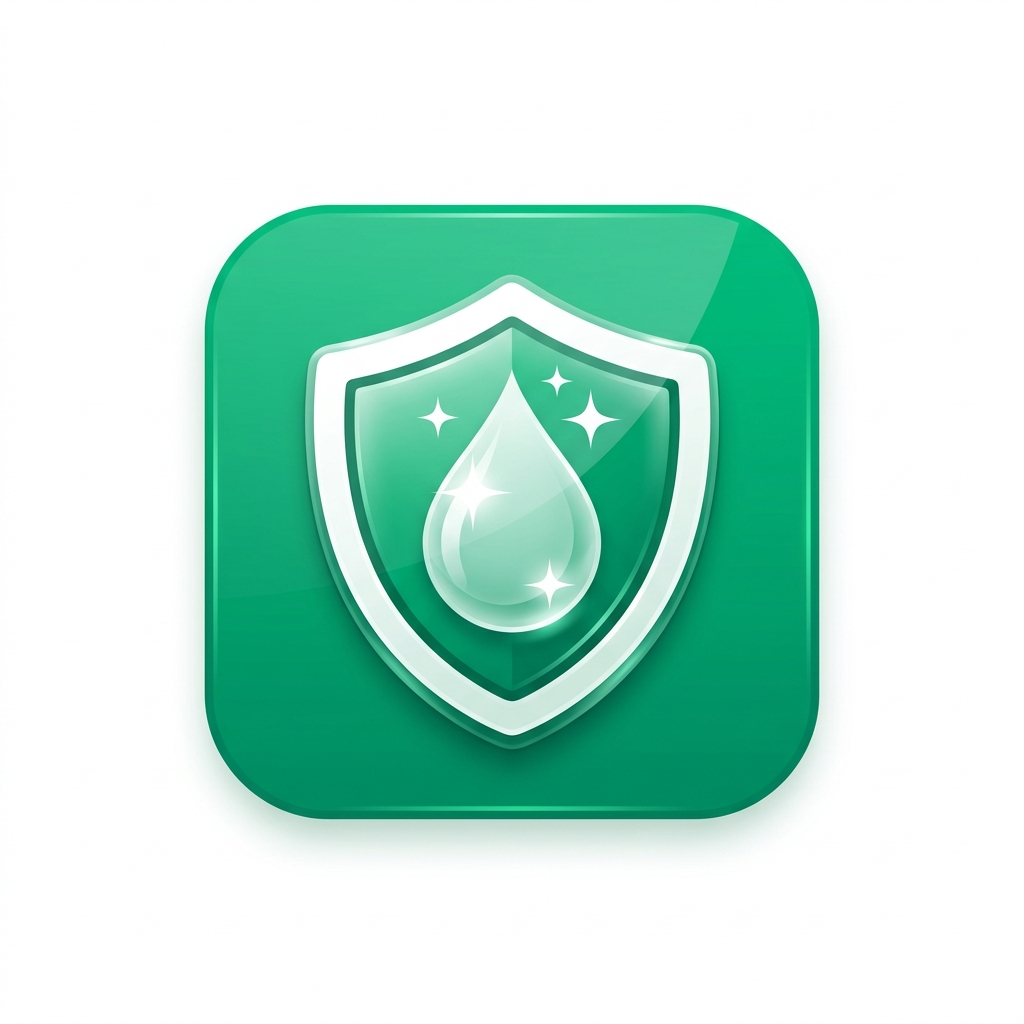
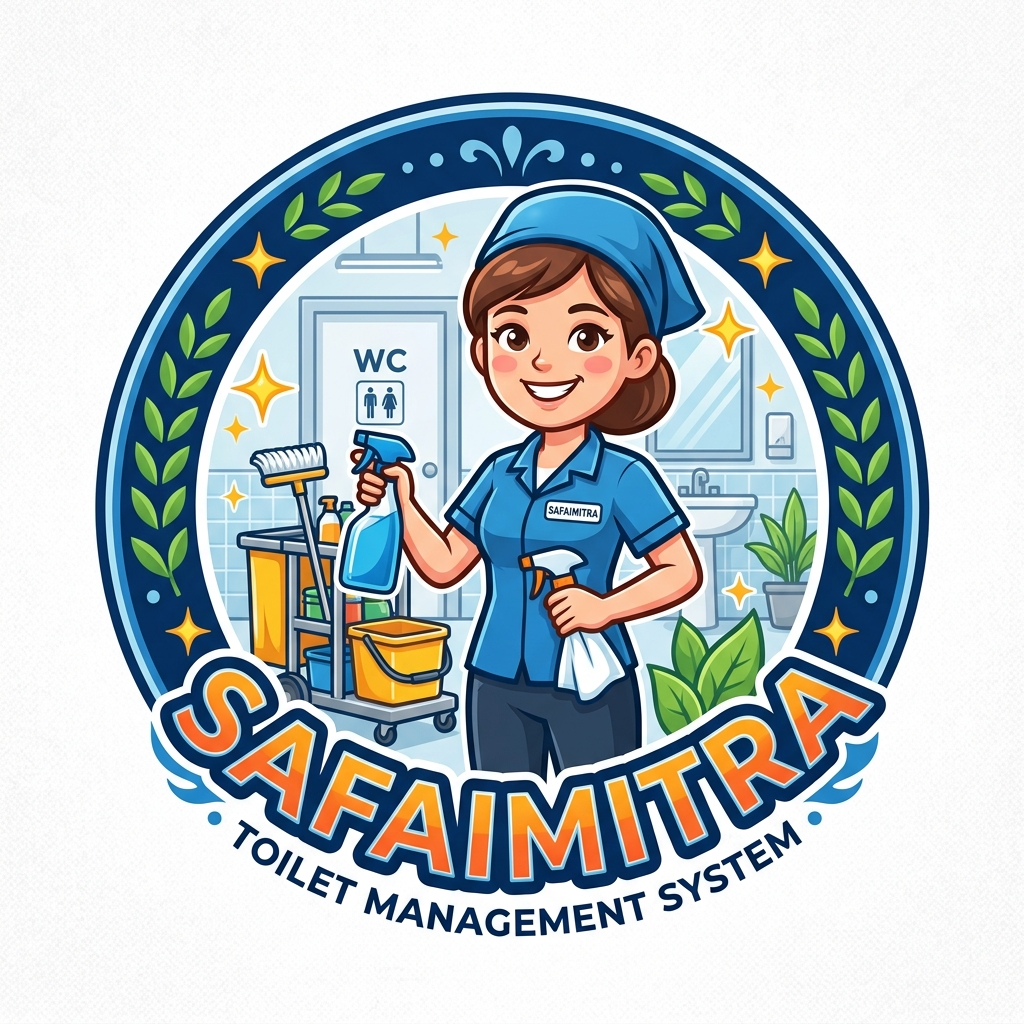
Update app theme to a cleaner bluish sky theme and change background color

diff --git a/safaimitra-web/tailwind.config.js b/safaimitra-web/tailwind.config.js
@@ -8,16 +8,16 @@ export default {
     extend: {
       colors: {
         primary: {
-          50: '#e8f0fe',
-          100: '#d2e3fc',
-          200: '#aecbfa',
-          300: '#8ab4f8',
-          400: '#669df6',
-          500: '#4285f4',
-          600: '#1a73e8', // Google Blue
-          700: '#1967d2',
-          800: '#185abc',
-          900: '#174ea6',
+          50: '#f0f9ff',
+          100: '#e0f2fe',
+          200: '#bae6fd',
+          300: '#7dd3fc',
+          400: '#38bdf8',
+          500: '#0ea5e9',
+          600: '#0284c7', // Sky Blue
+          700: '#0369a1',
+          800: '#075985',
+          900: '#0c4a6e',
         },
         dark: {
           900: '#202124',

diff --git a/safaimitra-web/src/pages/public/SubmitFeedback.tsx b/safaimitra-web/src/pages/public/SubmitFeedback.tsx
@@ -2,8 +2,8 @@ import React, { useState, useEffect } from 'react';
 import { useSearchParams, Link } from 'react-router-dom';
 import { collection, query, where, getDocs, addDoc, serverTimestamp } from 'firebase/firestore';
 import { db } from '../../lib/firebase';
-import { ShieldCheck, CheckCircle2, Star, MapPin } from 'lucide-react';
-import { motion } from 'framer-motion';
+import { Send, MapPin, CheckCircle2, ChevronRight, Check, Star } from 'lucide-react';
+import { motion, AnimatePresence } from 'framer-motion';
 
 const COMMON_ISSUES = [
   'Dirty floor',
@@ -160,8 +160,8 @@ export default function SubmitFeedback() {
     <div className="min-h-screen bg-gray-50 py-12 px-4 sm:px-6 lg:px-8">
       <div className="max-w-lg mx-auto">
         <div className="text-center mb-8">
-          <div className="mx-auto h-12 w-12 rounded-full bg-primary-50 flex items-center justify-center mb-4">
-            <ShieldCheck className="h-8 w-8 text-primary-600" />
+          <div className="mx-auto h-16 w-16 mb-4 flex items-center justify-center">
+             <img src="/logo.png" alt="SafaiMitra Logo" className="h-16 w-16 object-contain" />
           </div>
           <h2 className="text-3xl font-extrabold text-gray-900">
             Report an Issue

diff --git a/safaimitra-web/src/pages/auth/Login.tsx b/safaimitra-web/src/pages/auth/Login.tsx
@@ -4,7 +4,6 @@ import { signInWithEmailAndPassword, GoogleAuthProvider, signInWithPopup, signOu
 import { auth, db } from '../../lib/firebase';
 import { doc, getDoc } from 'firebase/firestore';
 import { useAuth } from '../../contexts/AuthContext';
-import { ShieldCheck } from 'lucide-react';
 import { motion } from 'framer-motion';
 
 export default function Login() {
@@ -86,10 +85,10 @@ export default function Login() {
         className="max-w-md w-full space-y-8 bg-white p-8 rounded-2xl shadow-soft border border-gray-200"
       >
         <div className="flex flex-col items-center">
-          <div className="h-12 w-12 rounded-full bg-primary-50 flex items-center justify-center">
-            <ShieldCheck className="h-8 w-8 text-primary-600" />
+          <div className="h-24 w-24 flex items-center justify-center overflow-hidden">
+            <img src="/logo.png" alt="SafaiMitra Logo" className="h-full w-full object-contain drop-shadow-sm" />
           </div>
-          <h2 className="mt-6 text-center text-3xl font-extrabold text-gray-900">
+          <h2 className="mt-4 text-center text-3xl font-extrabold text-gray-900">
             SafaiMitra
           </h2>
           <p className="mt-2 text-center text-sm text-gray-600">

diff --git a/safaimitra-web/src/components/layout/Sidebar.tsx b/safaimitra-web/src/components/layout/Sidebar.tsx
@@ -6,7 +6,6 @@ import {
   Users, 
   MessageSquare, 
   Settings,
-  ShieldCheck,
   Calendar,
   ClipboardList
 } from 'lucide-react';
@@ -50,7 +49,7 @@ export default function Sidebar({ isMobileMenuOpen, setIsMobileMenuOpen }: Sideb
       {/* Sidebar */}
       <div className={`fixed inset-y-0 left-0 z-50 transform ${isMobileMenuOpen ? 'translate-x-0' : '-translate-x-full'} md:relative md:translate-x-0 transition-transform duration-300 ease-in-out flex flex-col w-64 bg-white text-gray-700 h-full border-r border-gray-200`}>
       <Link to="/" className="flex items-center h-16 px-6 border-b border-gray-200 hover:bg-gray-50 transition-colors">
-        <ShieldCheck className="h-8 w-8 text-primary-600 mr-3" />
+        <img src="/logo.png" alt="SafaiMitra Logo" className="h-8 w-8 mr-3 object-contain" />
         <span className="text-xl font-bold text-gray-900 tracking-tight">SafaiMitra</span>
       </Link>
       <div className="flex-1 overflow-y-auto py-4">

diff --git a/safaimitra-web/src/index.css b/safaimitra-web/src/index.css
@@ -11,6 +11,6 @@
   body {
     @apply text-gray-900 antialiased;
     font-family: 'Roboto', sans-serif;
-    background-color: #f8f9fa; /* Google's light gray background */
+    background-color: #f0f9ff; /* Light sky blue background */
   }
 }